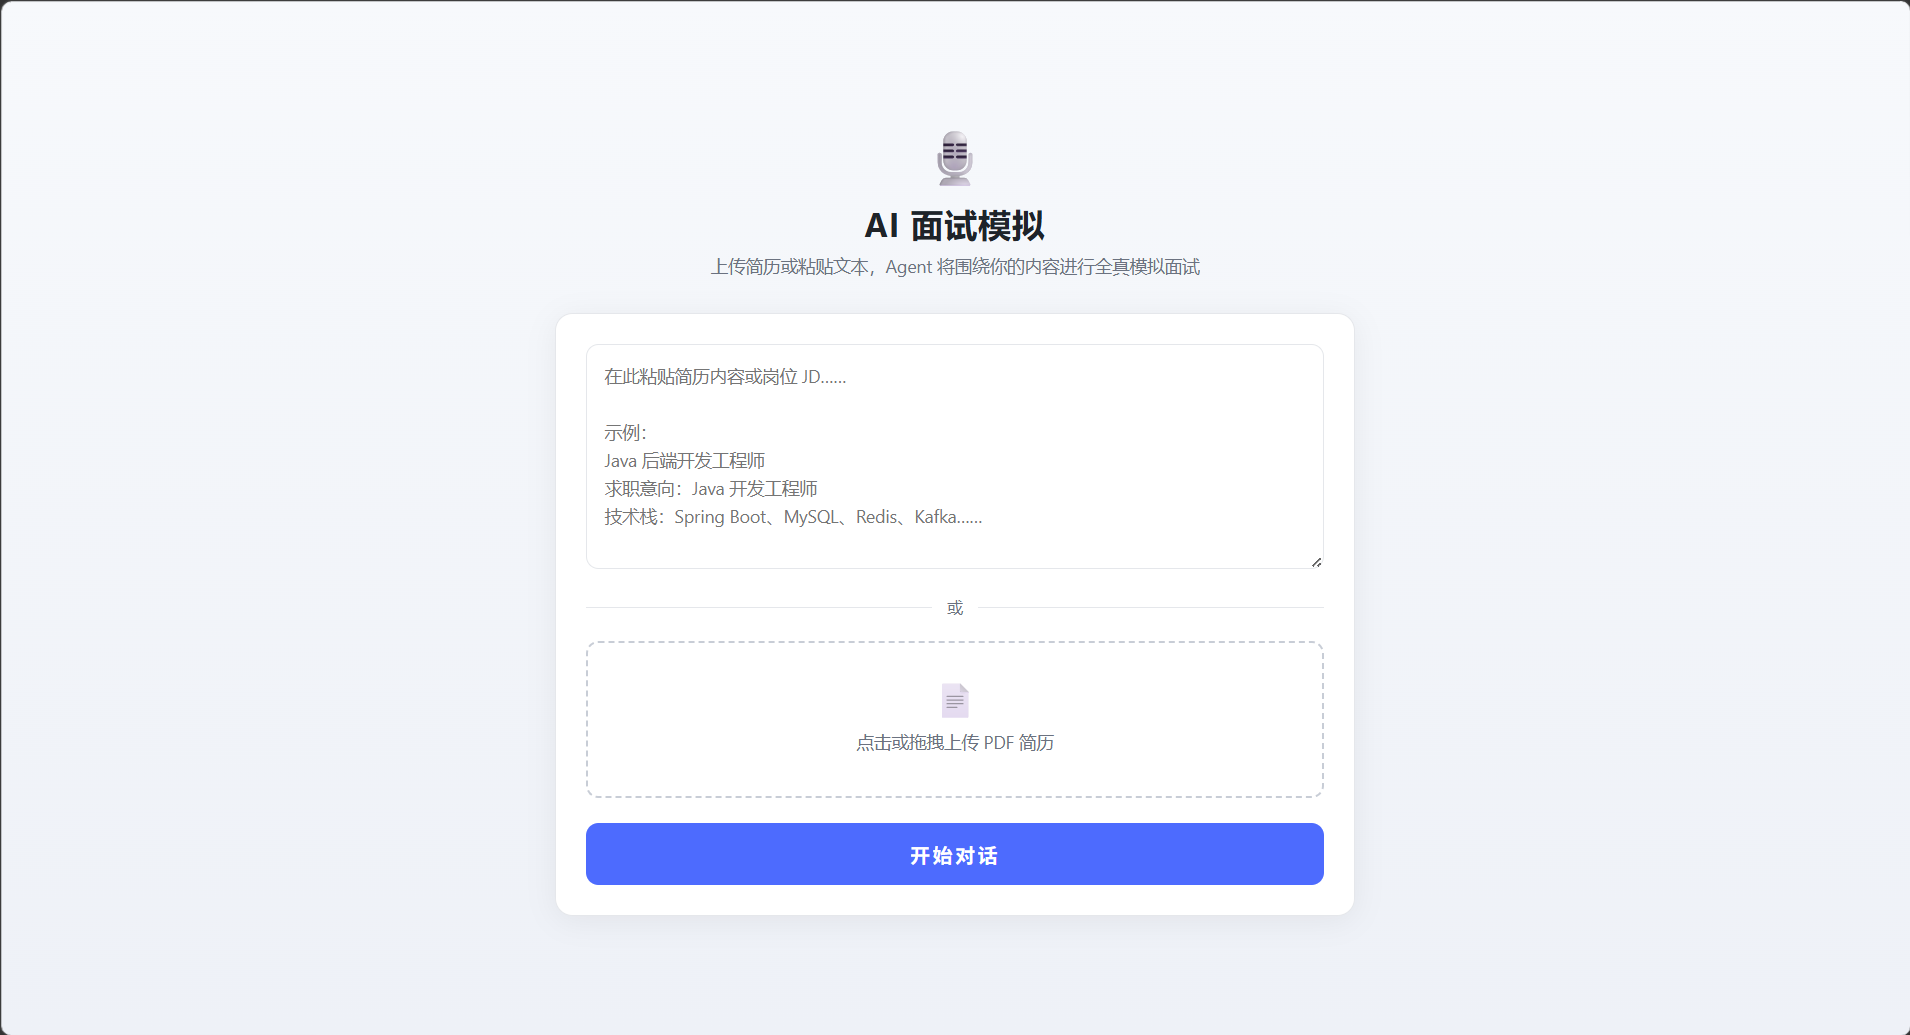
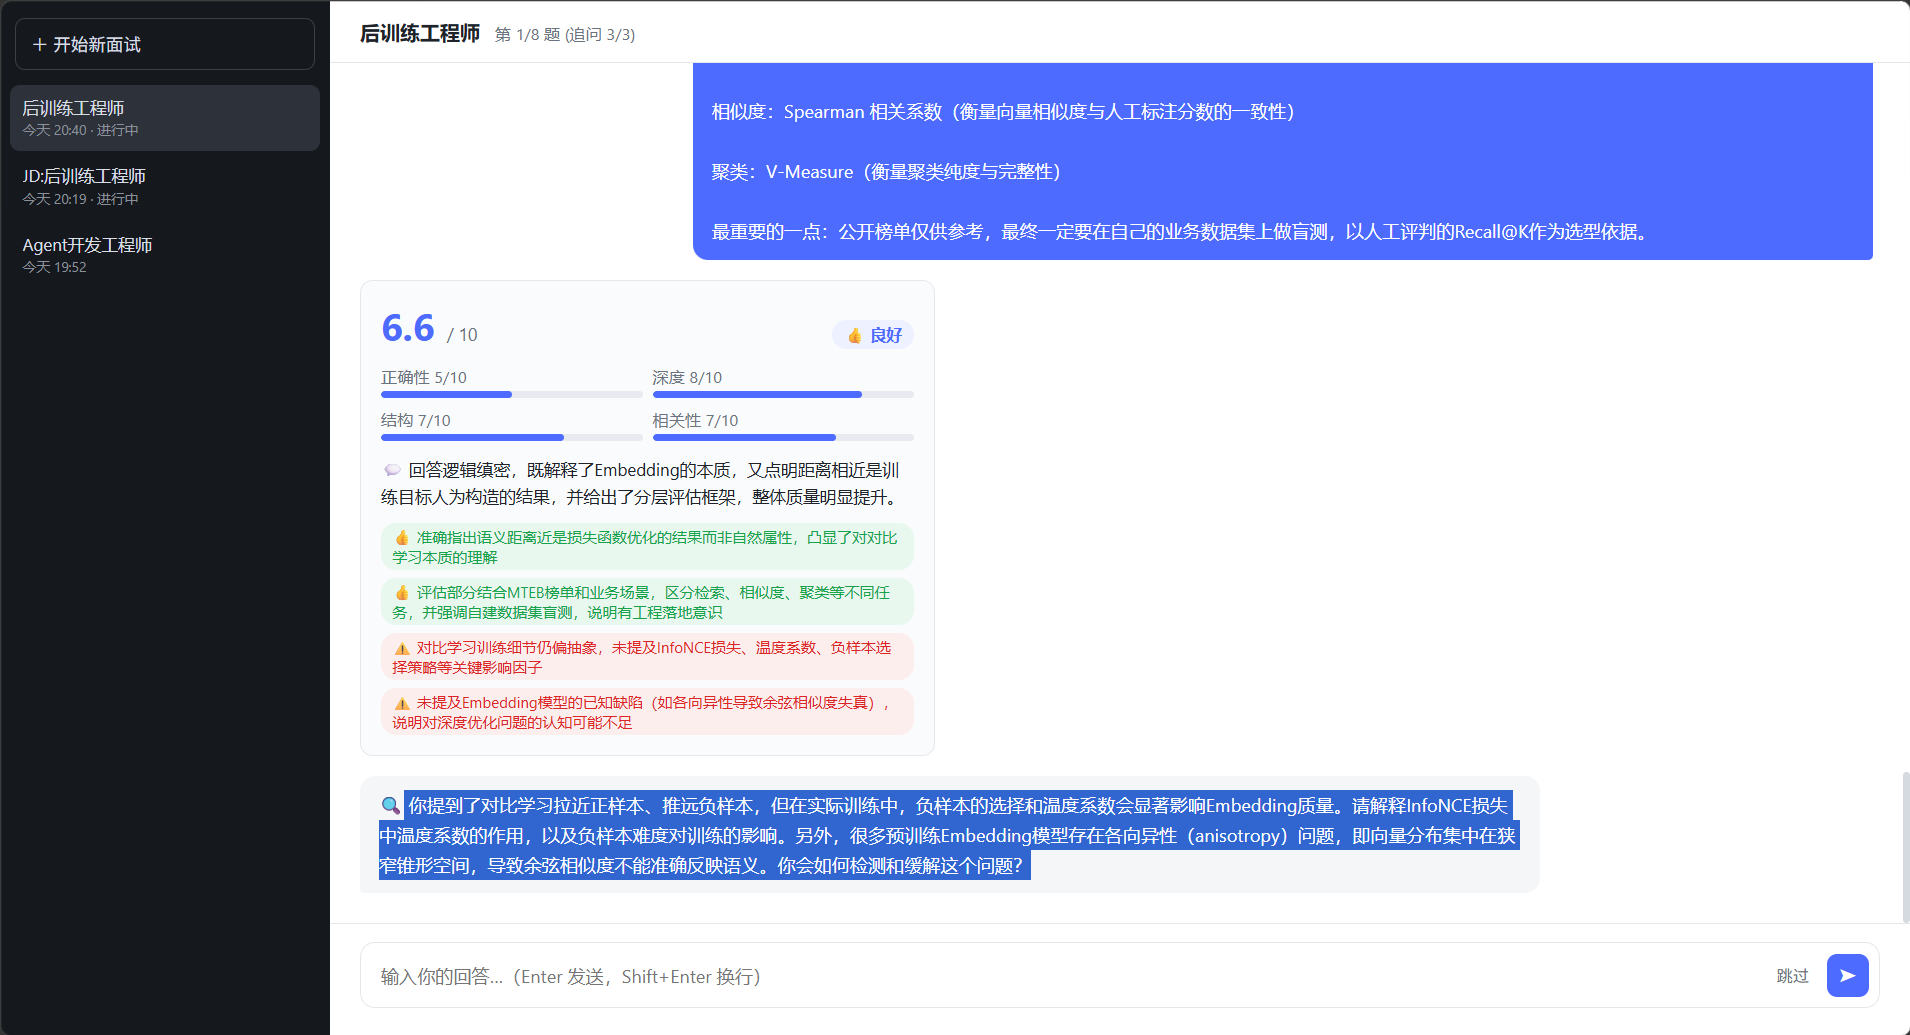
fix(web): 入口直达历史对话 + 截图标签修正
- 截图文件名对调（landing-page ↔ chat-interface）
- 进入页面时先查历史会话: 有历史 → 直接进聊天视图（侧边栏
  历史随时可点，主区显示欢迎占位）；无历史 → 落地页
- 落地页新增「查看历史面试 →」入口
- 未选中会话时隐藏输入区（避免误导性的"面试已结束"提示）

diff --git a/web/static/app.js b/web/static/app.js
@@ -33,6 +33,23 @@ function showChat() {
   $("#landing").hidden = true;
   $("#chat-app").hidden = false;
   loadHistory();
+  // 未选中会话 → 显示欢迎占位（DeepSeek 式: 进入即见侧边栏历史）
+  if (!state.currentSession) {
+    renderEmptyState();
+    updateComposer();
+  }
+}
+
+function renderEmptyState() {
+  const container = $("#messages");
+  container.innerHTML = "";
+  const el = document.createElement("div");
+  el.className = "empty-chat";
+  el.innerHTML = `
+    <div class="empty-icon">🎙</div>
+    <div class="empty-title">欢迎使用 AI 面试模拟</div>
+    <div class="empty-hint">👈 点击左侧历史记录继续之前的面试<br>或点击「＋ 开始新面试」开启新对话</div>`;
+  container.appendChild(el);
 }
 
 /* ═══════════════ 落地页逻辑 ═══════════════ */
@@ -473,8 +490,16 @@ $("#send-btn").addEventListener("click", sendAnswer);
 $("#skip-btn").addEventListener("click", skipQuestion);
 
 function updateComposer() {
-  // 仅进行中的会话可输入；已结束或未选中 → 禁用
-  const disabled = !state.currentSession || !state.canResume;
+  const composer = document.querySelector(".composer");
+  // 未选中任何会话 → 整个输入区隐藏（空状态页）
+  if (!state.currentSession) {
+    composer.hidden = true;
+    return;
+  }
+  composer.hidden = false;
+
+  // 仅进行中的会话可输入；已结束 → 禁用
+  const disabled = !state.canResume;
   answerInput.disabled = disabled;
   $("#skip-btn").hidden = disabled;
   $("#send-btn").disabled = disabled;
@@ -597,4 +622,24 @@ $("#new-interview-btn").addEventListener("click", () => {
   showLanding();
 });
 
-showLanding();
+// 落地页「查看历史面试」入口 — 直接进入聊天视图点历史记录
+$("#view-history-btn").addEventListener("click", showChat);
+
+async function init() {
+  // DeepSeek 式入口: 有历史会话 → 直接进聊天视图（历史随时可点）；
+  // 无历史 → 落地页（上传简历/粘贴 JD）
+  try {
+    const resp = await fetch("/api/interviews");
+    const data = await resp.json();
+    if (data.sessions && data.sessions.length) {
+      showChat();
+    } else {
+      showLanding();
+    }
+  } catch (e) {
+    console.error("初始化失败:", e);
+    showLanding();
+  }
+}
+
+init();

diff --git a/web/static/style.css b/web/static/style.css
@@ -125,6 +125,34 @@ body {
 .btn-primary:hover { background: var(--accent-hover); }
 .btn-primary:disabled { background: #a8b4f5; cursor: not-allowed; }
 
+.btn-history {
+  width: 100%;
+  margin-top: 10px;
+  padding: 10px;
+  background: transparent;
+  color: var(--text-dim);
+  border: 1px solid var(--border);
+  border-radius: 10px;
+  font-size: 14px;
+  cursor: pointer;
+  transition: all .15s;
+}
+.btn-history:hover { color: var(--accent); border-color: var(--accent); }
+
+/* 聊天区空状态（未选中会话时的欢迎占位） */
+.empty-chat {
+  flex: 1;
+  display: flex;
+  flex-direction: column;
+  align-items: center;
+  justify-content: center;
+  gap: 10px;
+  color: var(--text-dim);
+}
+.empty-chat .empty-icon { font-size: 40px; }
+.empty-chat .empty-title { font-size: 17px; font-weight: 600; color: var(--text-main); }
+.empty-chat .empty-hint { font-size: 13px; line-height: 1.8; text-align: center; }
+
 .error-msg {
   margin-top: 14px;
   color: var(--danger);

diff --git a/web/static/index.html b/web/static/index.html
@@ -31,6 +31,7 @@
       </div>
 
       <button id="start-btn" class="btn-primary">开始对话</button>
+      <button id="view-history-btn" class="btn-history">查看历史面试 →</button>
       <div id="landing-error" class="error-msg" hidden></div>
     </div>
   </div>
